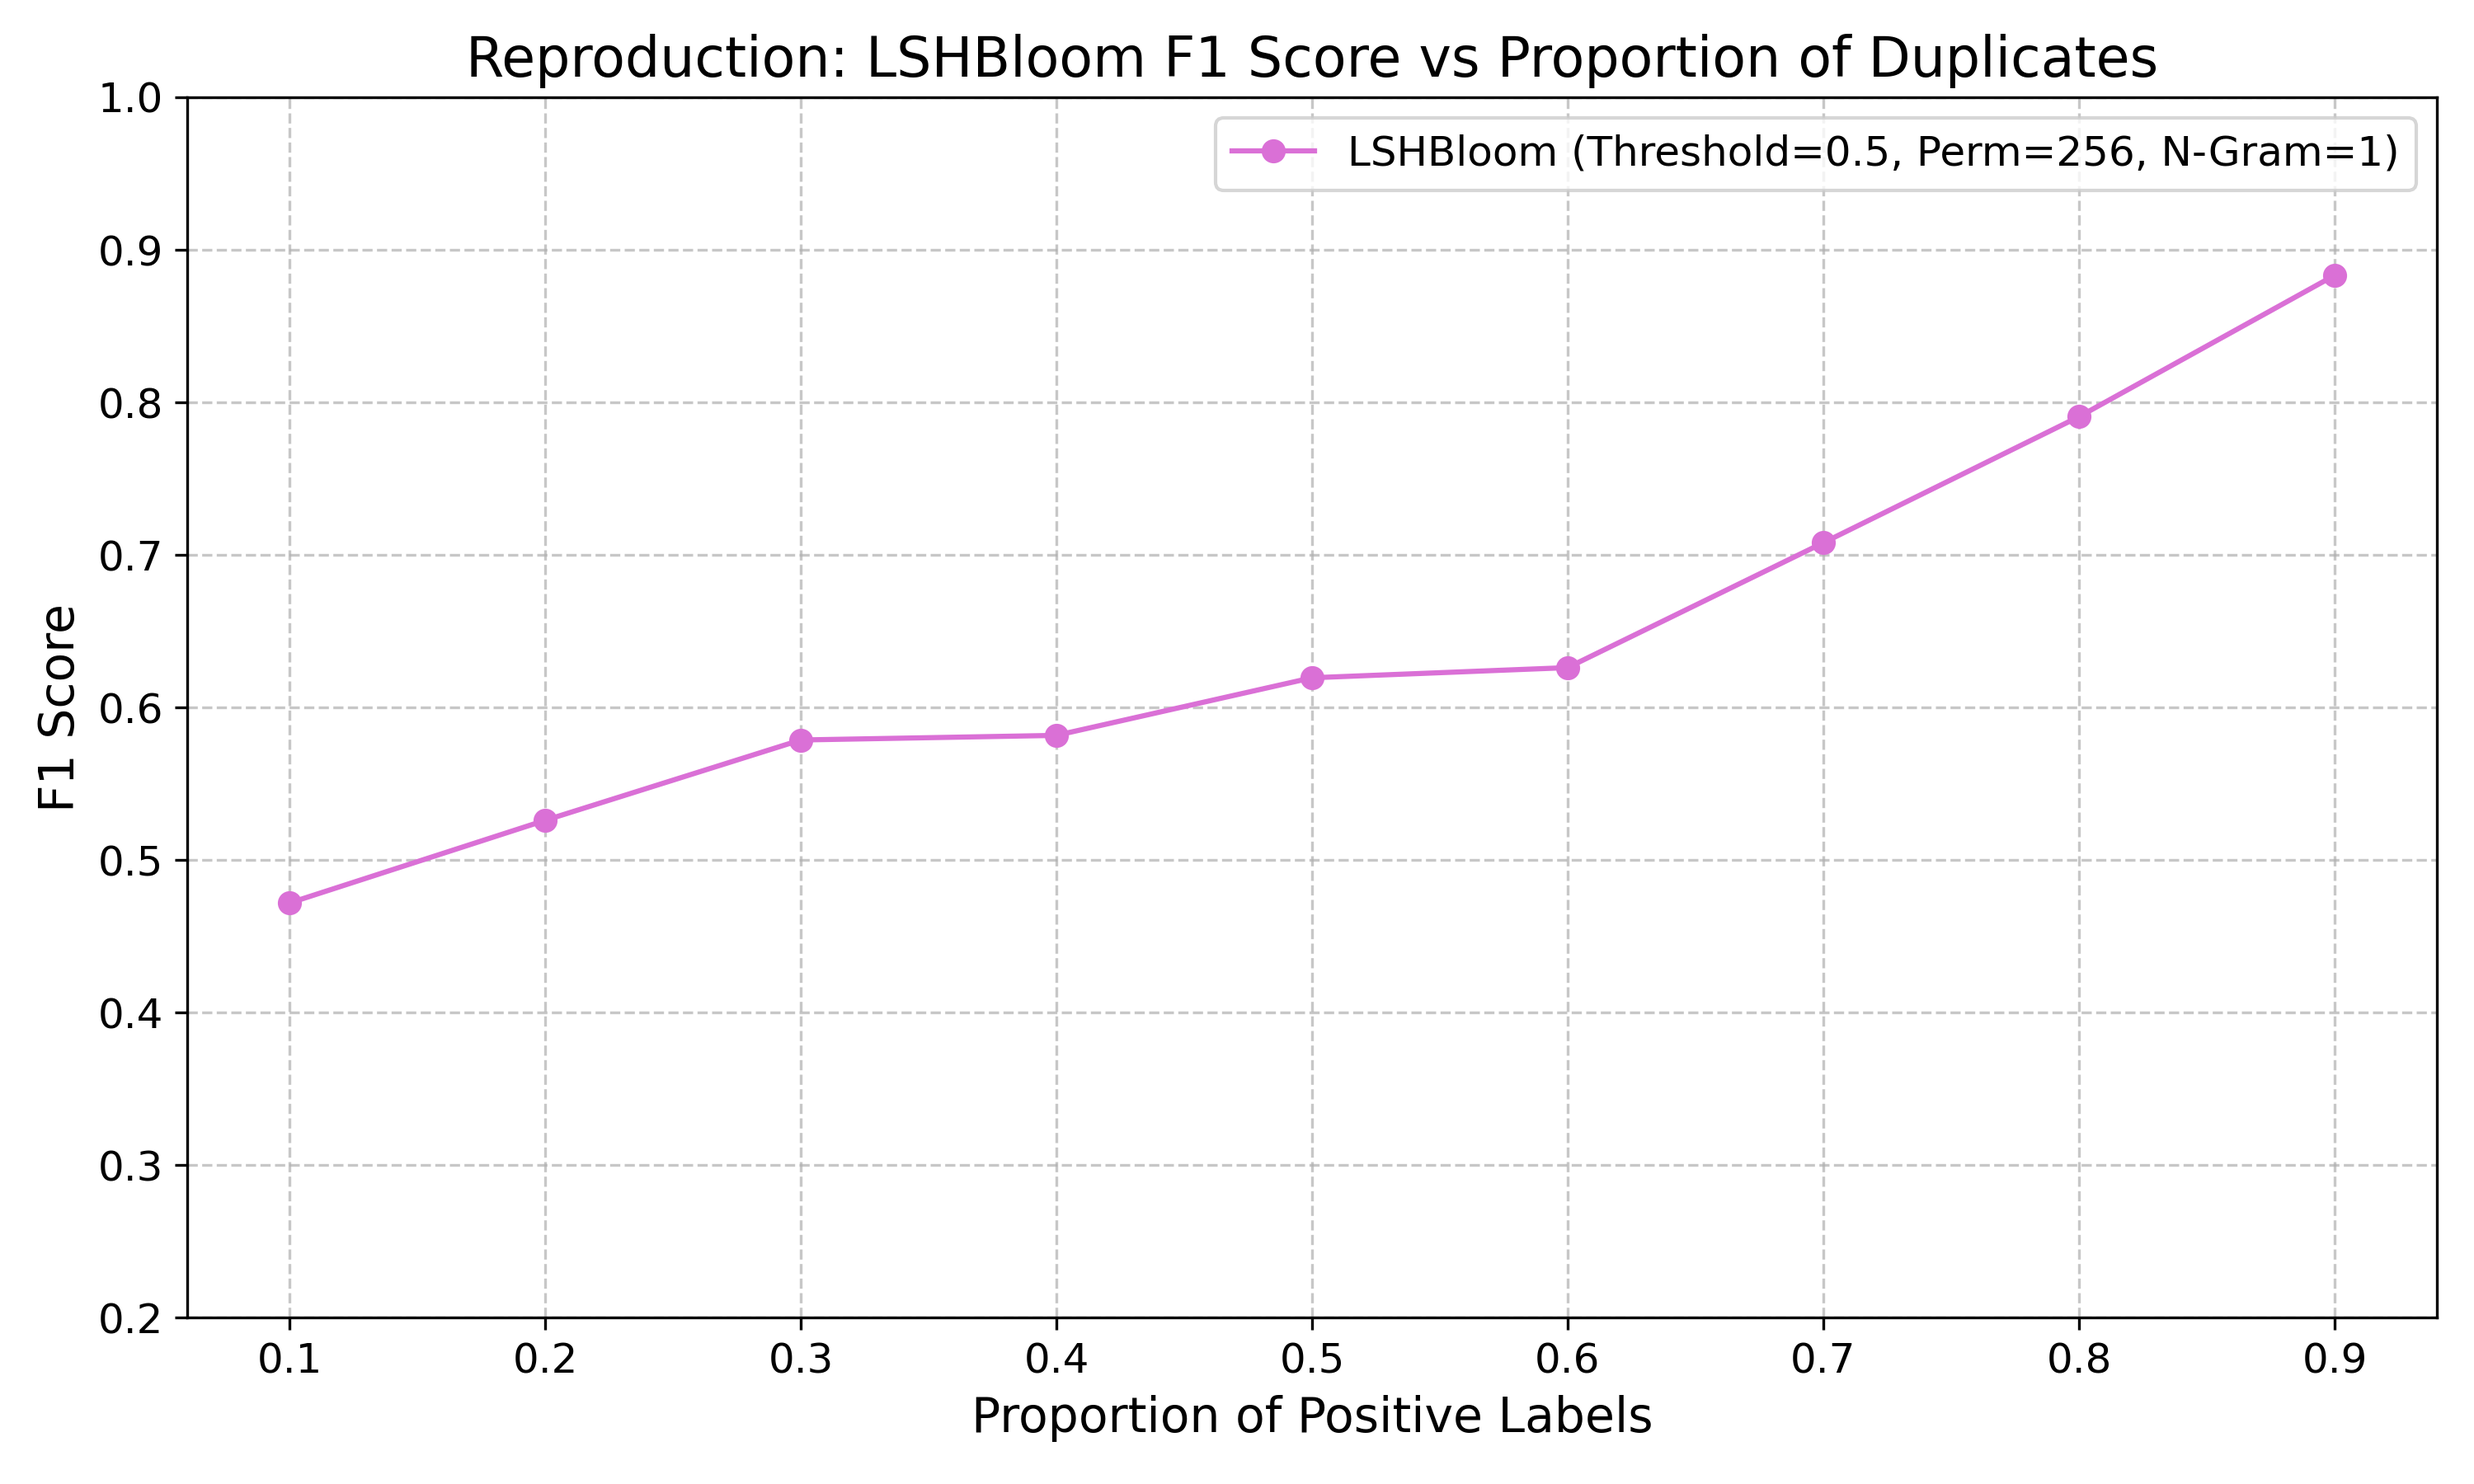
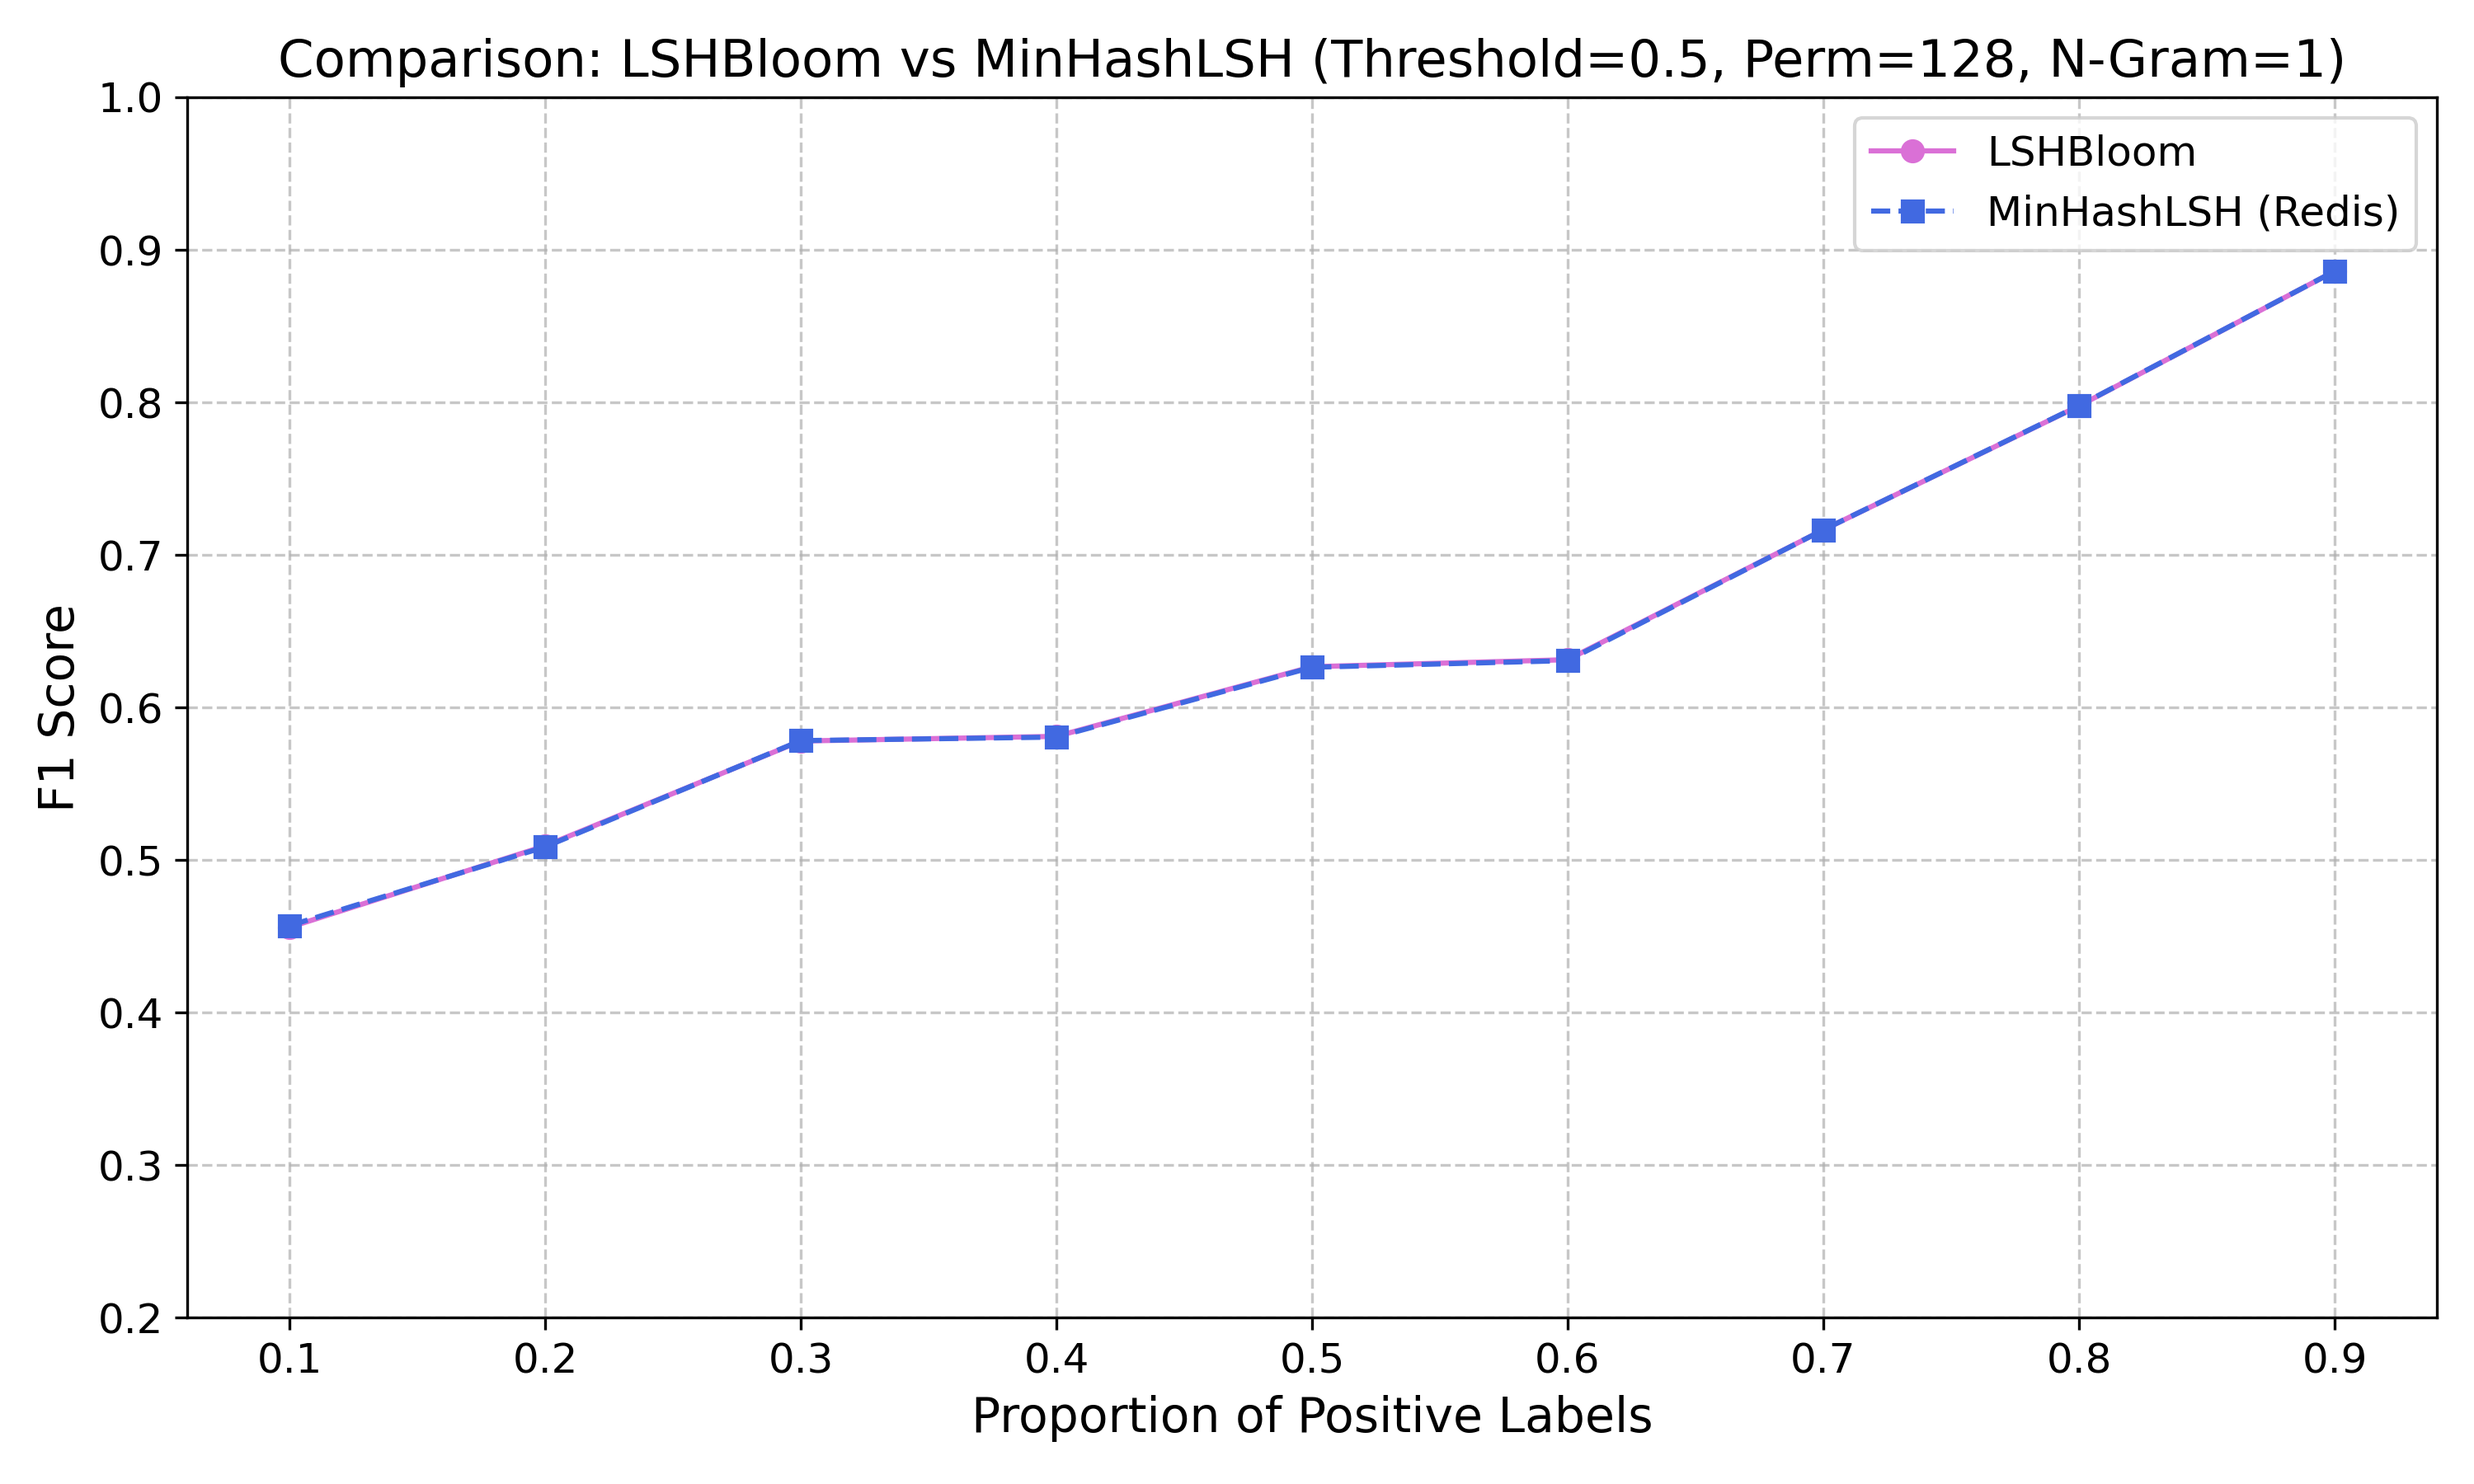
Refactor import paths in lsh.py and lsh_bloom.py for better clarity; update DATA_TAG in config.py; modify parser_sources in gen_dedup_benchmark.py; remove obsolete bloom filter and minhash files from test benchmarks.

diff --git a/LSH-benchmark/dedup/lsh/lsh_bloom_verified.py b/LSH-benchmark/dedup/lsh/lsh_bloom_verified.py
@@ -1,0 +1,277 @@
+import os
+import sys
+
+CURRENT_DIR = os.path.dirname(__file__)
+sys.path.insert(0, os.path.abspath(os.path.join(CURRENT_DIR, "datasketch")))
+sys.path.insert(0, os.path.abspath(os.path.join(CURRENT_DIR, "..")))
+sys.path.insert(0, os.path.abspath(os.path.join(CURRENT_DIR, "../../synthetic_benchmark")))
+
+from glob import glob
+import argparse
+import hashlib
+from collections import defaultdict
+from config import *
+from dedup_parsing_harness import DedupHarness
+from datasketch import MinHash, MinHashLSHBloom
+import pickle
+from scipy.integrate import quad as integrate
+
+FP_DEFAULT = 1e-5
+
+
+def get_args():
+    parser = argparse.ArgumentParser()
+    parser.add_argument(
+		"--sim-threshold",
+		help="Jaccard Similarity threshold for deduplication, should be in [0, 1]. Default is 0.8",
+		default=0.8,
+	)
+    parser.add_argument(
+		"--num-perm",
+		help="Number of hash functions for MinHashing. Default is 128",
+		default=128,
+	)
+    parser.add_argument(
+		"--fp",
+		help="FP rate for bloom filters",
+        type=float,
+		default=0,
+	)
+    parser.add_argument(
+		"--ngram",
+		help="N-gram size for MinHashing. Default is 1",
+        type=int,
+		default=1,
+	)
+    parser.add_argument(
+	    "--force-compute-minhash",
+	    help="Whether to force computing minhashes as opposed to reading cached minhashes from disk",
+	    action='store_true'
+	)
+    parser.add_argument(
+        "--input",
+        help="Input tag",
+        type=str,
+        required=True
+    )
+    return parser.parse_args()
+
+
+def _false_positive_probability(threshold, b, r):
+    _probability = lambda s: 1 - (1 - s ** float(r)) ** float(b)
+    a, err = integrate(_probability, 0.0, threshold)
+    return a, err
+
+
+def _false_negative_probability(threshold, b, r):
+    _probability = lambda s: 1 - (1 - (1 - s ** float(r)) ** float(b))
+    a, err = integrate(_probability, threshold, 1.0)
+    return a, err
+
+
+def _optimal_param(threshold, num_perm, false_positive_weight, false_negative_weight):
+    min_error = float("inf")
+    opt = (0, 0)
+    for b in range(1, num_perm + 1):
+        max_r = int(num_perm / b)
+        for r in range(1, max_r + 1):
+            fp, _ = _false_positive_probability(threshold, b, r)
+            fn, _ = _false_negative_probability(threshold, b, r)
+            error = fp * false_positive_weight + fn * false_negative_weight
+            if error < min_error:
+                min_error = error
+                opt = (b, r)
+    return opt
+
+
+class LSHBloomVerifiedDeduper(DedupHarness):
+    def __init__(self, n: int, sim_threshold: float, num_perm: int, minhash_root: str, save_dir: str, recompute_minhashes=False, fp=FP_DEFAULT, ngram: int=1, df_min: int = 2, df_max_ratio: float = 0.20):
+        super().__init__("lsh_bloom_verified")
+        self.T = sim_threshold
+        self.k = num_perm
+        self.n = n
+        self.save_dir = save_dir
+        self.minhash_root = minhash_root
+        self.force_minhash = recompute_minhashes
+        self.ngram = ngram
+        self.top_k = 25
+        self.df_min = df_min
+        self.df_max_ratio = df_max_ratio
+        self._seen_tokens = {}
+        self._seen_minhashes = {}
+        self._length_buckets = defaultdict(set)
+        self._prefix_buckets = defaultdict(set)
+        self._shingle_df = defaultdict(int)
+        self._df_ready = False
+
+        for item in glob(f"{save_dir}/*.bf"):
+            os.remove(item)
+            print(f"Clearing bloom filter: {item}")
+
+        p_effective = fp
+        b, _ = _optimal_param(self.T, self.k, 0.5, 0.5)
+        fp_optimal = 1.0 - (1.0 - p_effective)**(1.0 / b)
+        self.lsh = MinHashLSHBloom(threshold=self.T, num_perm=self.k, fp=fp_optimal, n=self.n, save_dir=self.save_dir)
+
+    def get_tokens(self, text: str, id: int):
+        if id in self._seen_tokens:
+            return self._seen_tokens[id]
+
+        assert isinstance(text, str), f"Error empty document with id: {id}"
+        words = text.split()
+        if len(words) < self.ngram:
+            tokens = set(words)
+        else:
+            tokens = set([" ".join(words[i:i+self.ngram]) for i in range(len(words) - self.ngram + 1)])
+
+        assert len(tokens) > 0, f"Error: empty document with id: {id}"
+        self._seen_tokens[id] = tokens
+        for token in tokens:
+            self._shingle_df[token] += 1
+        return tokens
+
+    def _content_hash(self, tokens) -> str:
+        payload = "\x1f".join(sorted(tokens))
+        return hashlib.sha1(payload.encode("utf8")).hexdigest()
+
+    def _filter_tokens_by_df(self, tokens):
+        if not self._df_ready or not self._shingle_df:
+            return tokens
+        max_df = max(1, int(len(self._seen_tokens) * self.df_max_ratio))
+        filtered = {tok for tok in tokens if self.df_min <= self._shingle_df.get(tok, 0) <= max_df}
+        return filtered if filtered else tokens
+
+    def _length_bucket(self, tokens) -> int:
+        length = len(tokens)
+        if length <= 8:
+            return 8
+        if length <= 16:
+            return 16
+        if length <= 32:
+            return 32
+        if length <= 64:
+            return 64
+        if length <= 128:
+            return 128
+        return 256
+
+    def _prefix_bucket(self, tokens) -> str:
+        return self._content_hash(tokens)[:6]
+
+    def _overlap_ratio(self, tokens_a, tokens_b) -> float:
+        if not tokens_a:
+            return 0.0
+        return len(tokens_a & tokens_b) / float(min(len(tokens_a), len(tokens_b)))
+
+    def get_minhash(self, text: str, id: int) -> MinHash:
+        mh_pkl = os.path.join(self.minhash_root, f"{id}.pkl")
+        if not self.force_minhash and os.path.isfile(mh_pkl):
+            with open(mh_pkl, "rb") as f:
+                mh = pickle.load(f)
+            assert isinstance(mh, MinHash), f"Failed to parse minhash at: {mh_pkl}"
+            return mh
+
+        mh = MinHash(num_perm=self.k)
+        tokens = self._filter_tokens_by_df(self.get_tokens(text, id))
+        for d in tokens:
+            mh.update(d.encode("utf8"))
+
+        with open(mh_pkl, "wb") as f:
+            pickle.dump(mh, f)
+
+        return mh
+
+    def _exact_jaccard(self, tokens_a, tokens_b) -> float:
+        if not tokens_a and not tokens_b:
+            return 1.0
+        return len(tokens_a & tokens_b) / float(len(tokens_a | tokens_b))
+
+    def _candidate_ids(self, tokens):
+        bucket = self._length_bucket(tokens)
+        prefix = self._prefix_bucket(tokens)
+        candidate_ids = set()
+        for b in (bucket // 2, bucket, bucket * 2):
+            if b in self._length_buckets:
+                candidate_ids.update(self._length_buckets[b])
+        candidate_ids.update(self._prefix_buckets.get(prefix, set()))
+        if not candidate_ids:
+            candidate_ids = set(self._seen_tokens.keys())
+        return candidate_ids
+
+    def _verify_candidates(self, tokens):
+        candidate_ids = self._candidate_ids(tokens)
+        scored = []
+        for cand_id in candidate_ids:
+            cand_tokens = self._seen_tokens.get(cand_id)
+            if cand_tokens is None:
+                continue
+            cand_tokens = self._filter_tokens_by_df(cand_tokens)
+            jacc = self._exact_jaccard(tokens, cand_tokens)
+            if jacc >= self.T:
+                return True, jacc, cand_id
+            overlap = self._overlap_ratio(tokens, cand_tokens)
+            containment = len(tokens & cand_tokens) / float(len(tokens))
+            score = 0.55 * jacc + 0.25 * overlap + 0.20 * containment
+            scored.append((score, cand_id))
+
+        scored.sort(reverse=True)
+        best = scored[:self.top_k]
+        if best:
+            best_score, best_id = best[0]
+            soft_threshold = max(0.56, self.T - 0.14)
+            if best_score >= soft_threshold:
+                return True, best_score, best_id
+        return False, best[0][0] if best else 0.0, best[0][1] if best else None
+
+    def deduplicate(self, text: str, id: int) -> bool:
+        mh = self.get_minhash(text, id)
+        tokens = self.get_tokens(text, id)
+
+        maybe_dup = self.lsh.query(mh)
+        is_dup = False
+        if maybe_dup:
+            is_dup, _, _ = self._verify_candidates(tokens)
+
+        if not is_dup:
+            self.lsh.insert(mh)
+            self._seen_minhashes[id] = mh
+            bucket = self._length_bucket(tokens)
+            prefix = self._prefix_bucket(tokens)
+            self._length_buckets[bucket].add(id)
+            self._prefix_buckets[prefix].add(id)
+
+            if not self._df_ready:
+                if len(self._seen_tokens) >= 128:
+                    self._df_ready = True
+
+        return is_dup
+
+
+if __name__ == "__main__":
+    args = get_args()
+    benchmark_tag = args.input
+    benchmark_csv = os.path.join(DATA_PATH, f"{benchmark_tag}.csv")
+    benchmark_jsonl = os.path.join(DATA_PATH, f"{benchmark_tag}.jsonl")
+    fp_tag = f"_fp_{args.fp}" if args.fp > 0 else ""
+    result_dir = os.path.join(WORK_DIR, benchmark_tag, f"lsh_bloom_verified_results{fp_tag}")
+    minhash_root = os.path.join(result_dir, "minhashes", f"{args.num_perm}")
+    save_dir = os.path.join(result_dir, f"bloom_filter_{args.sim_threshold}_{args.num_perm}")
+    output_file = os.path.join(result_dir, f"lsh_bloom_verified_{args.sim_threshold}_{args.num_perm}_preds.csv")
+    result_file = os.path.join(result_dir, f"lsh_bloom_verified_{args.sim_threshold}_{args.num_perm}_score.csv")
+    os.makedirs(minhash_root, exist_ok=True)
+    os.makedirs(save_dir, exist_ok=True)
+    os.makedirs(result_dir, exist_ok=True)
+
+    deduper = LSHBloomVerifiedDeduper(
+        n=DATA_SIZE,
+        sim_threshold=float(args.sim_threshold),
+        num_perm=int(args.num_perm),
+        minhash_root=minhash_root,
+        save_dir=save_dir,
+        recompute_minhashes=args.force_compute_minhash,
+        fp=args.fp if args.fp > 0 else FP_DEFAULT,
+        ngram=int(args.ngram)
+    )
+
+    deduper.run(benchmark_jsonl, output_file)
+    deduper.score(output_file, benchmark_csv, result_file)

diff --git a/LSH-benchmark/dedup/lsh/lsh.py b/LSH-benchmark/dedup/lsh/lsh.py
@@ -1,7 +1,9 @@
 import os
 import sys
-sys.path.append(os.path.abspath(os.path.join(os.path.dirname(__file__), "../../synthetic_benchmark")))
-sys.path.append(os.path.abspath(os.path.join(os.path.dirname(__file__), "..")))
+CURRENT_DIR = os.path.dirname(__file__)
+sys.path.insert(0, os.path.abspath(os.path.join(CURRENT_DIR, "datasketch")))
+sys.path.insert(0, os.path.abspath(os.path.join(CURRENT_DIR, "..")))
+sys.path.insert(0, os.path.abspath(os.path.join(CURRENT_DIR, "../../synthetic_benchmark")))
 import argparse
 from config import *
 from dedup_parsing_harness import DedupHarness

diff --git a/LSH-benchmark/dedup/lsh/lsh_bloom.py b/LSH-benchmark/dedup/lsh/lsh_bloom.py
@@ -1,7 +1,9 @@
 import os
 import sys
-sys.path.append(os.path.abspath(os.path.join(os.path.dirname(__file__), "../../synthetic_benchmark")))
-sys.path.append(os.path.abspath(os.path.join(os.path.dirname(__file__), "..")))
+CURRENT_DIR = os.path.dirname(__file__)
+sys.path.insert(0, os.path.abspath(os.path.join(CURRENT_DIR, "datasketch")))
+sys.path.insert(0, os.path.abspath(os.path.join(CURRENT_DIR, "..")))
+sys.path.insert(0, os.path.abspath(os.path.join(CURRENT_DIR, "../../synthetic_benchmark")))
 from glob import glob
 import argparse
 from config import *

diff --git a/LSH-benchmark/synthetic_benchmark/gen_dedup_benchmark.py b/LSH-benchmark/synthetic_benchmark/gen_dedup_benchmark.py
@@ -21,7 +21,7 @@ if __name__ == "__main__":
     # FIND PARSER DUPLICATES
     N_per_source = args.N_per_source
     p_src = Path('./')
-    parser_sources = ['html', 'nougat', 'pymupdf', 'tesseract']
+    parser_sources = ['html', 'pypdf', 'pymupdf', 'tesseract']
 
     # choose per parser duplicate sample limits to ensure approximate 50/50 split between parser and truncation duplicates
     m = (N_per_source * len(parser_sources)) # num expected non duplicate documents

diff --git a/LSH-benchmark/synthetic_benchmark/config.py b/LSH-benchmark/synthetic_benchmark/config.py
@@ -1,4 +1,4 @@
-DATA_TAG="test"
+DATA_TAG = "my_benchmark"
 DATA_PATH="benchmark_dfs"
 DATA_SIZE=10000
 
